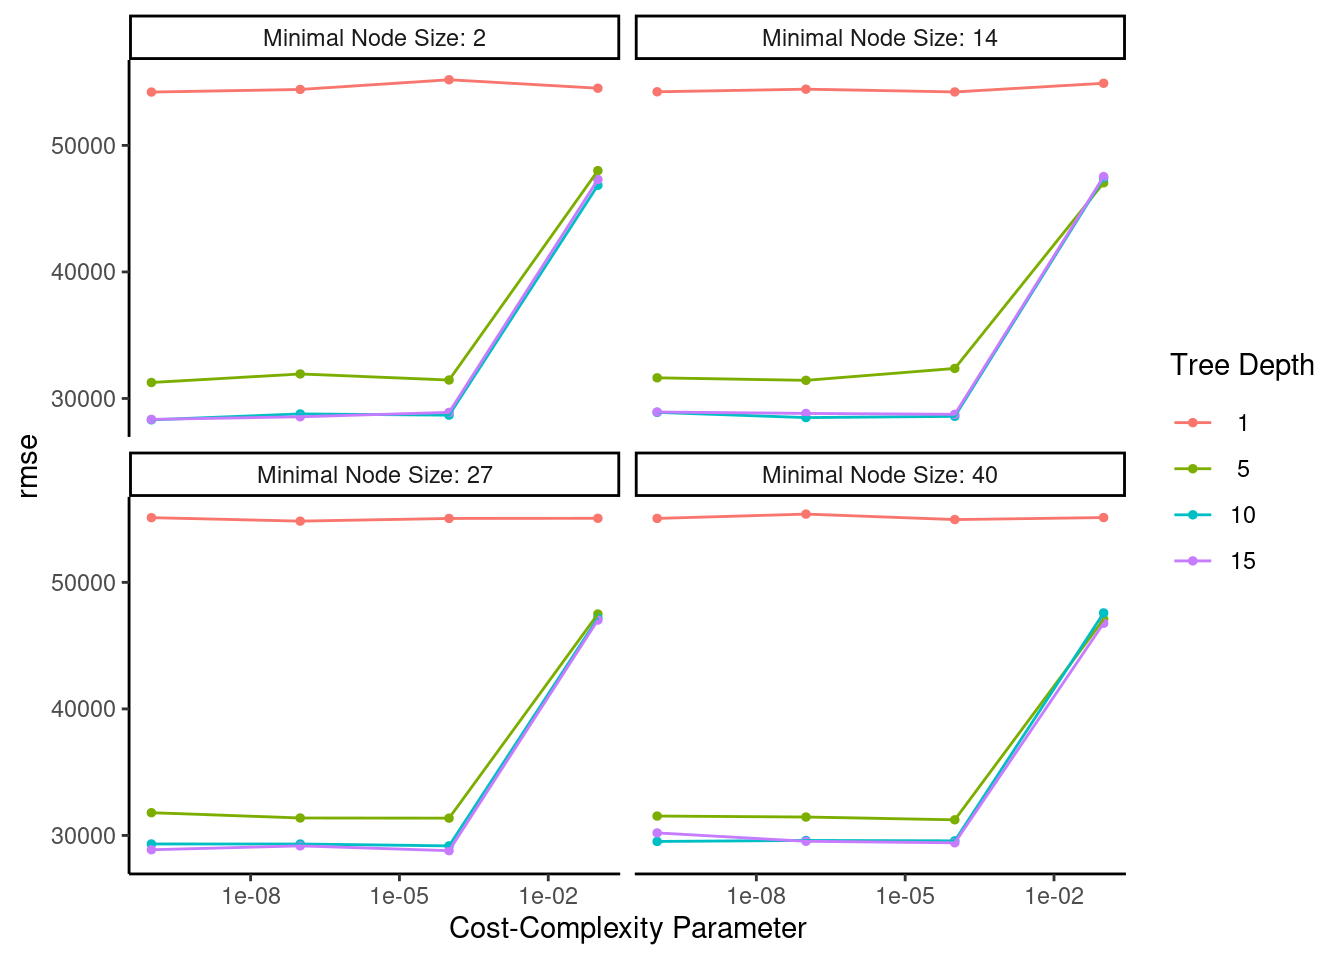
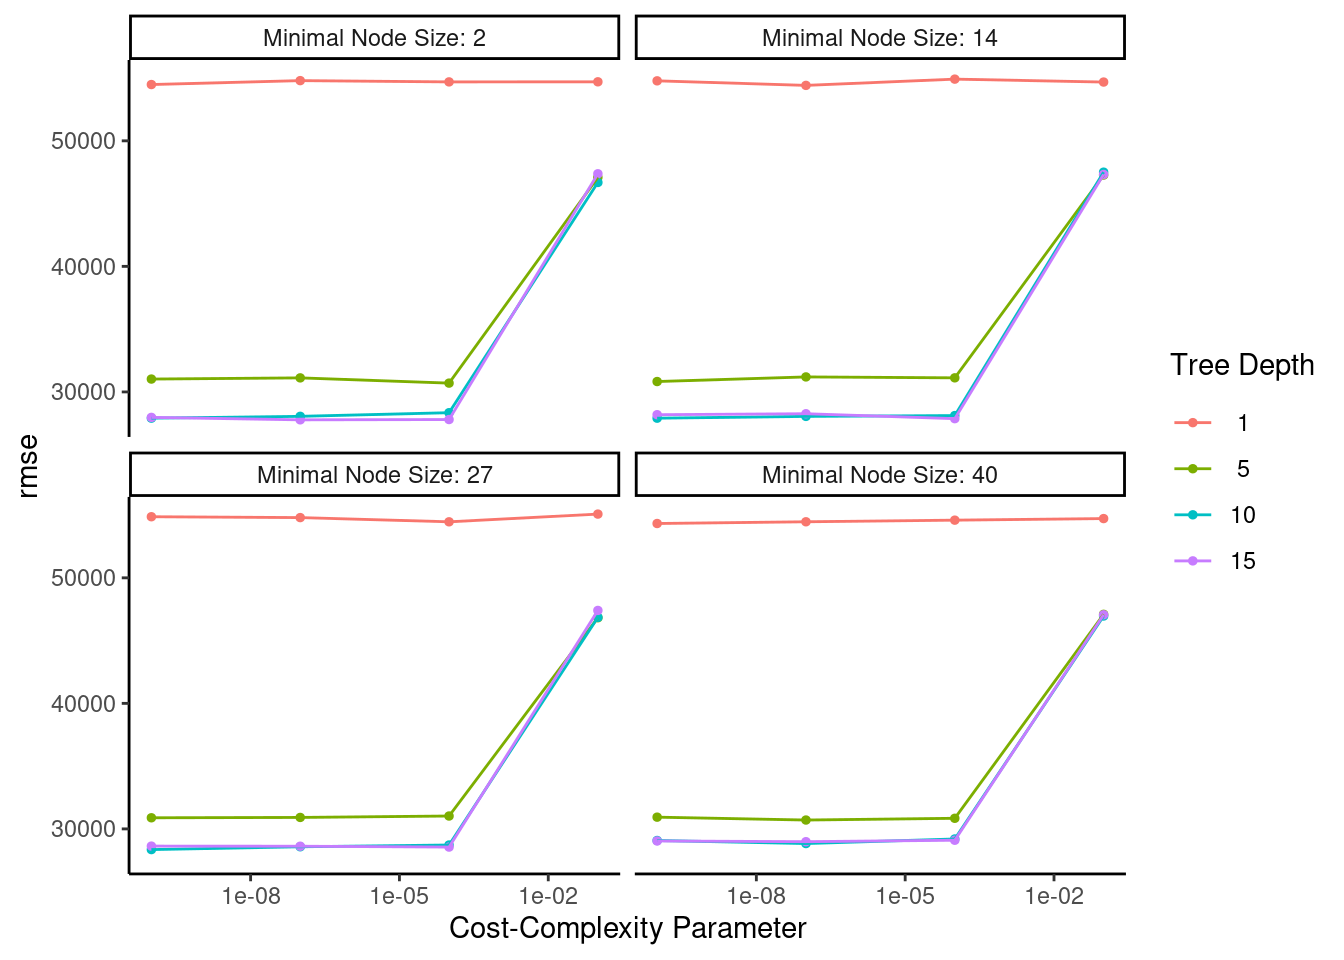
Built site for gh-pages

diff --git a/009_random_forest.html b/009_random_forest.html
@@ -440,12 +440,11 @@ window.Quarto = {
 <section id="lecture-videos" class="level3" data-number="9.1.3">
 <h3 data-number="9.1.3" class="anchored" data-anchor-id="lecture-videos"><span class="header-section-number">9.1.3</span> Lecture Videos</h3>
 <ul>
-<li><a href="https://mediaspace.wisc.edu/media/iaml+unit+9-1/1_xk3gxr2y">Lecture 1: Decision Trees</a></li>
-<li><a href="https://mediaspace.wisc.edu/media/iaml+unit+9-2/1_nrwshb2s">Lecture 2: Decision Trees in Ames</a></li>
-<li><a href="">Lecture 3: Bagged Trees</a></li>
-<li><a href="">Lecture 4: Bagged Trees in Ames</a></li>
-<li><a href="">Lecture 5: Random Forest</a></li>
-<li><a href="">Lecture 6: Random Forest in Ames</a></li>
+<li><a href="https://mediaspace.wisc.edu/media/iaml+unit+9-1/1_xk3gxr2y">Lecture 1: Decision Trees</a> ~ 30 mins</li>
+<li><a href="https://mediaspace.wisc.edu/media/iaml+unit+9-2/1_nrwshb2s">Lecture 2: Decision Trees in Ames</a> ~ 20 mins</li>
+<li><a href="https://mediaspace.wisc.edu/media/iaml+unit+9-3/1_bykr6l2l">Lecture 3: Bagged Trees</a>i ~ 10 mins</li>
+<li><a href="https://mediaspace.wisc.edu/media/iaml+unit+9-4/1_qkn0qrgy">Lecture 4: Bagged Trees in Ames</a> ~ 6 mins</li>
+<li><a href="https://mediaspace.wisc.edu/media/iaml+unit+9-5/1_wtuy10yx">Lecture 5: Random Forest</a> ~ 16 mins</li>
 </ul>
 <hr>
 <p>Post questions to the video-lectures channel in Slack</p>
@@ -454,7 +453,7 @@ window.Quarto = {
 <h3 data-number="9.1.4" class="anchored" data-anchor-id="coding-assignment"><span class="header-section-number">9.1.4</span> Coding Assignment</h3>
 <ul>
 <li><a href="application_assignments/unit_09/fifa.csv">data</a></li>
-<li><a href="application_assignments/unit_09/hw_unit_10_random_forest.qmd">qmd shell</a></li>
+<li><a href="https://raw.githubusercontent.com/jjcurtin/book_iaml/main/application_assignments/unit_09/hw_unit_10_random_forest.qmd">qmd shell</a></li>
 <li><a href="">solution</a></li>
 </ul>
 <p>Post questions to application-assignments Slack channel</p>
@@ -2378,7 +2377,7 @@ We can use the same recipe<br>
 <br>
 We will use the same splits to tune hyperparameters<br>
 <br>
-Now we need <code>times = 20</code> to fit 20 models to 10 bootstraps (set earlier) of the training data.</p>
+Now we need <code>times = 20</code> to fit 20 models (inner loop of bootstrapping) to each of the 10 bootstraps (outer loop; set earlier) of the training data.</p>
 <ul>
 <li>Keeping this low to reduce computational costs.<br>
 </li>
@@ -2390,7 +2389,7 @@ Now we need <code>times = 20</code> to fit 20 models to 10 bootstraps (set earli
 <span id="cb26-3"><a href="#cb26-3" aria-hidden="true" tabindex="-1"></a>    <span class="fu">bag_tree</span>(<span class="at">cost_complexity =</span> <span class="fu">tune</span>(),</span>
 <span id="cb26-4"><a href="#cb26-4" aria-hidden="true" tabindex="-1"></a>           <span class="at">tree_depth =</span> <span class="fu">tune</span>(),</span>
 <span id="cb26-5"><a href="#cb26-5" aria-hidden="true" tabindex="-1"></a>           <span class="at">min_n =</span> <span class="fu">tune</span>()) <span class="sc">|&gt;</span></span>
-<span id="cb26-6"><a href="#cb26-6" aria-hidden="true" tabindex="-1"></a>    <span class="fu">set_engine</span>(<span class="st">"rpart"</span>, <span class="at">times =</span> <span class="dv">10</span>) <span class="sc">|&gt;</span></span>
+<span id="cb26-6"><a href="#cb26-6" aria-hidden="true" tabindex="-1"></a>    <span class="fu">set_engine</span>(<span class="st">"rpart"</span>, <span class="at">times =</span> <span class="dv">20</span>) <span class="sc">|&gt;</span></span>
 <span id="cb26-7"><a href="#cb26-7" aria-hidden="true" tabindex="-1"></a>    <span class="fu">set_mode</span>(<span class="st">"regression"</span>) <span class="sc">|&gt;</span> </span>
 <span id="cb26-8"><a href="#cb26-8" aria-hidden="true" tabindex="-1"></a>    <span class="fu">tune_grid</span>(<span class="at">preprocessor =</span> rec, </span>
 <span id="cb26-9"><a href="#cb26-9" aria-hidden="true" tabindex="-1"></a>              <span class="at">resamples =</span> splits_boot, </span>
@@ -2427,18 +2426,18 @@ Now we need <code>times = 20</code> to fit 20 models to 10 bootstraps (set earli
 <pre><code># A tibble: 5 × 9
   cost_complexity tree_depth min_n .metric .estimator   mean     n std_err
             &lt;dbl&gt;      &lt;int&gt; &lt;int&gt; &lt;chr&gt;   &lt;chr&gt;       &lt;dbl&gt; &lt;int&gt;   &lt;dbl&gt;
-1    0.0000000001         10     2 rmse    standard   28311.    10    652.
-2    0.0000000001         15     2 rmse    standard   28346.    10    581.
-3    0.0000001            10    14 rmse    standard   28489.    10    717.
-4    0.0000001            15     2 rmse    standard   28553.    10    714.
-5    0.0001               10    14 rmse    standard   28585.    10    760.
+1    0.0000001            15     2 rmse    standard   27777.    10    537.
+2    0.0001               15     2 rmse    standard   27801.    10    644.
+3    0.0001               15    14 rmse    standard   27870.    10    748.
+4    0.0000000001         10    14 rmse    standard   27908.    10    777.
+5    0.0000000001         10     2 rmse    standard   27910.    10    609.
   .config              
   &lt;chr&gt;                
-1 Preprocessor1_Model09
-2 Preprocessor1_Model13
-3 Preprocessor1_Model26
-4 Preprocessor1_Model14
-5 Preprocessor1_Model27</code></pre>
+1 Preprocessor1_Model14
+2 Preprocessor1_Model15
+3 Preprocessor1_Model31
+4 Preprocessor1_Model25
+5 Preprocessor1_Model09</code></pre>
 </div>
 </div>
 <hr>
@@ -2530,7 +2529,7 @@ Now we need <code>times = 20</code> to fit 20 models to 10 bootstraps (set earli
 <li>We will use the <code>ranger</code> engine implementation of this algorithm</li>
 </ul>
 <hr>
-<p>Random forests builds on decision trees (its base learners) and bagging to reduce final model variance.<br>
+<p>Random forests build on decision trees (its base learners) and bagging to reduce final model variance.<br>
 <br>
 Simply bagging trees is not optimal to reduce final model variance</p>
 <ul>
